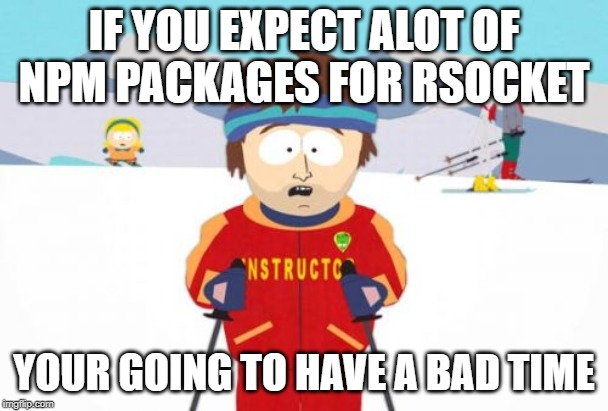
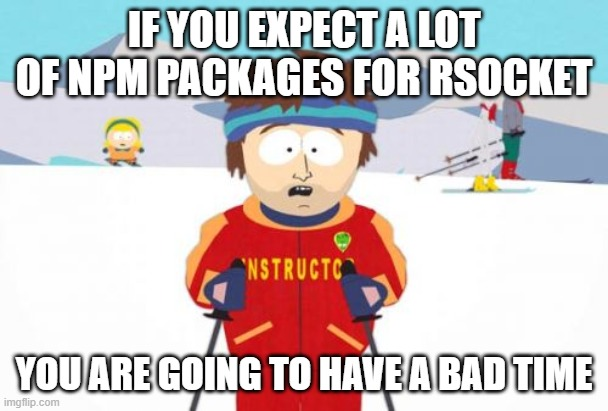
revisions to opening content of rsocket js intro post

Changed region(s): [[0.0, 0.0, 1.0, 0.2628], [0.0, 0.8467, 1.0, 1.0]]

diff --git a/content/blog/2020-01-26-using-rsocket-in-javascript/index.md b/content/blog/2020-01-26-using-rsocket-in-javascript/index.md
@@ -1,38 +1,46 @@
 ---
 title: Approaching RSocket in Javascript
-slug: state-of-rsocket-with-javascript
-date: "2020-01-26T16:41:00.000Z"
-description: "Quick overview of using RSocket with Javascript"
+slug: approaching-rsocket-in-javascript
+date: "2020-03-15T16:41:00.000Z"
+description: "******************TODO******************"
 ogimage: "./og-image.jpg"
 ---
 
-In my [previous article](/reviewing-distributed-system-architectures) we learned briefly about a somewhat new addition to the network/application protocol space called RSocket. In this article we will first set the stage, and then review some of the ways RSocket is supported in the Javascript ecosystem today.
+RSocket is an exciting new advancement in the distributed systems space, however, it hasn't quite picked up the same popularity in the Javascript ecosystem as other networking techonologies, such as GraphQL. In contrast to GraphQL where entire conferences, companies, and library suites have taken life, RSocket is missing a similar level of investment from Javascript developers and big time Javascript consumers.
 
-## Setting the stage: RSocket is young
+## RSocket Hasn't Gained Popularity
 
-Although Google shows search trends dating back to 2015 for RSocket, its popularity as a search term appears to have been rather stagnant until late 2018, where it started to pickup some momentum.
+Let's compare RSocket's search popularity with [GraphQL's](https://graphql.org/), which is another networking and application protocol.
 
-![graph showing rsocket search popularity on Google Trends](./rsocket-search-trends.png)
+RSocket's search popularity only started picking up steam in late 2018.
 
-Why is this relevant?
+![Graph showing RSocket search popularity on Google Trends](./rsocket-search-trends.png)
 
-If we use Google Trends as a tool/lense to determine industry adoption we can see that when compared to other protocols that have gained adoption and momentum, such  as GraphQL (denoted in red below), RSocket (denoted in blue below) has yet to experience the same boom and growth that would signify a similar adoption.
+Source: [Google Trends](https://trends.google.com/trends/explore?date=2015-01-01%202020-03-15&q=rsocket)
 
-![graph showing rsocket vs graphql search popularity on Google Trends](./rsocket-search-trends-vs-graphql.png)
+In contrast, GraphQL has experienced a much steeper increase in search popularity.
 
-In my opinion the search trend data represents somewhat closely the level of support and development occurring in the Javascript ecosystem for RSocket. I also believe that the popularity and boom in adoption of GraphQL is due in part to the great support and adoption that GraphQL has found in the Javascript ecosystem, not to mention its backing by large companies such as Facebook. If RSocket were to gain popularity with Javascript developers, and additionally gain some additional enterprise backing, I believe it has the potential to experience similar growth in regards to adoption.
+![Graph showing RSocket search popularity on Google Trends](./graphql-search-trends.png)
 
-Why is any of that relevant?
+Source: [Google Trends](https://trends.google.com/trends/explore?date=2015-01-01%202020-03-15&q=graphql)
 
-Javascript developers have become widely accustomed (myself included) to leveraging hundreds or thousands of open source packages to solve a wide range of problems, but that ecosystem of libraries and abstractions around RSocket hasn't quite developed just yet. So if you expect to be able to `npm install` your way to victory with RSocket, your going to have a bad time.
+If we draw a parallel between search popularity and industry adoption, RSocket has yet to experience the same search popularity growth as GraphQL, signifying that it hasn't adopted the same level of adoption.
 
-![super cool ski instructor meme from southpark](./npm-rsocket-bad-time-meme.jpg)
+![Graph showing RSocket vs GraphQL search popularity on Google Trends](./rsocket-search-trends-vs-graphql.png)
 
-*[know your meme: super cool ski instructor](https://knowyourmeme.com/memes/super-cool-ski-instructor)*
+GraphQL in red. RSocket in blue.
+<br/>
+Source: [Google Trends](https://trends.google.com/trends/explore?date=2015-01-01%202020-03-15&q=rsocket,graphql)
+
+The popularity of GraphQL can be attributed to its conception at Facebook as well as investment into its ecosystem from startups such as [Apollo GraphQL](https://www.apollographql.com/). If RSocket were to gain popularity with large enterprise companies and Javascript developers, it has the potential to experience similar adoption.
+
+Javascript developers have become accustomed to leveraging open source packages to solve a wide range of problems. Unfortunately, RSocket's ecosystem hasn't quite developed yet; there is only a single reference implementation of RSocket for Javascript and no well established supporting libraries. If you expect to be able to `npm install` your way to victory, you're going to have a bad time.
+
+![Image of "super cool ski instructor" meme from Southpark](./npm-rsocket-bad-time-meme.jpg)
 
 ## What support exists today?
 
-Even though the open source landscape for RSocket in Javascript is relatively up and coming, there is enough to build *something* with what is currently available. And dare I say, there is likely enough to build something that you *could* run in production, though your mileage may vary when it comes to monitoring, telemetry and other production considerations.
+There exists enough library support to build *something* with RSocket in Javascript. When it comes to running an application in production, your mileage may vary when considering monitoring, telemetry, and other common production needs.
 
 ### rsocket-js
 
@@ -94,3 +102,5 @@ If you are familiar with [RxJS](https://github.com/ReactiveX/rxjs), then rsocket
 While the bulk of ongoing development appears to be centered around the Java and C++ implementations of RSocket, it is my hope that the Javascript implementation will continue to receive updates and additions to meet the full RSocket spec, but only time will tell.
 
 If you are passionate about RSocket and a seasoned Javascript developer, now may be a good time to get involved with the project to leave your mark and assist in its continuity. If contributing to the project(s) might not be your cup of tea, then sharing this article with your friends, coworkers, and your social networks would be a great way to increase RSockets visibility in the Javascript community.
+
+In my [previous article](/reviewing-distributed-system-architectures) we learned briefly about a somewhat new addition to the network/application protocol space called RSocket.
